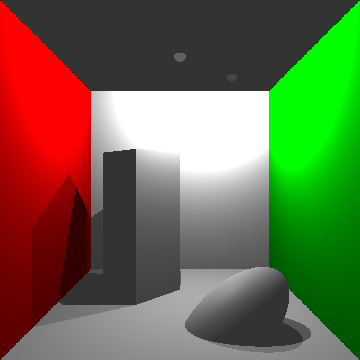
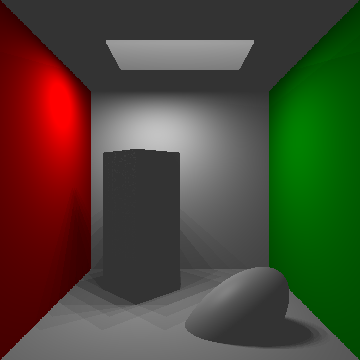
working in progress...

diff --git a/Source/main.py b/Source/main.py
@@ -29,9 +29,10 @@ def CreateObjects():
     white_floor = ObjectInstance( Transform(glm.vec3(0,0,0)), Plane( glm.vec3(0,1,0) ), PhongMaterial( Color(1,1,1), Color(0,0,0), 10 ) )
     
     instances = [red_plane, green_plane, white_plane, white_ceiling, white_floor]
+    #instances = [white_floor]
     
     # unit_sphere
-    # instances.append( ObjectInstance( Transform(glm.vec3(0,2,0)), Sphere(0.5), PhongMaterial( Color(1,1,0), Color(1,1,1), 10 ) ) )
+    #instances.append( ObjectInstance( Transform(glm.vec3(0,2,0)), Sphere(0.5), PhongMaterial( Color(1,1,0), Color(1,1,1), 10 ) ) )
     
     # box
     instances.append( ObjectInstance( Transform(glm.vec3(0.7,1.25,0.7), glm.vec3(0,45,0)), Box(glm.vec3(1,2.5,1)), PhongMaterial( Color(1,1,1), Color(1,1,1), 10 ) ) )
@@ -46,9 +47,10 @@ def CreateLights():
     # LIGHTS -----------------------------------------------------
     point_light = LightInstance( Transform(glm.vec3(0,4,0)), Sphere(0.1), PointLight(5))
     aux_point_light = LightInstance( Transform(glm.vec3(-1,4,1)), Sphere(0.1), PointLight(3))
-    #area_light = LightInstance( Transform(glm.vec3(0,4,0)), Box(2,0.2,1), AreaLight( 10, glm.vec3(2,0,0), glm.vec3(0,0,1), 1, "REGULAR" ) )
+    area_light = LightInstance( Transform(glm.vec3(0,4,0)), Box(glm.vec3(2.1,0.1,1.1)), AreaLight( 10, glm.vec3(2,0,0), glm.vec3(0,0,1), 4, "REGULAR" ) )
     
-    instances = [point_light,aux_point_light]
+    #instances = [point_light,aux_point_light]
+    instances = [area_light]
     
     return instances    
 
